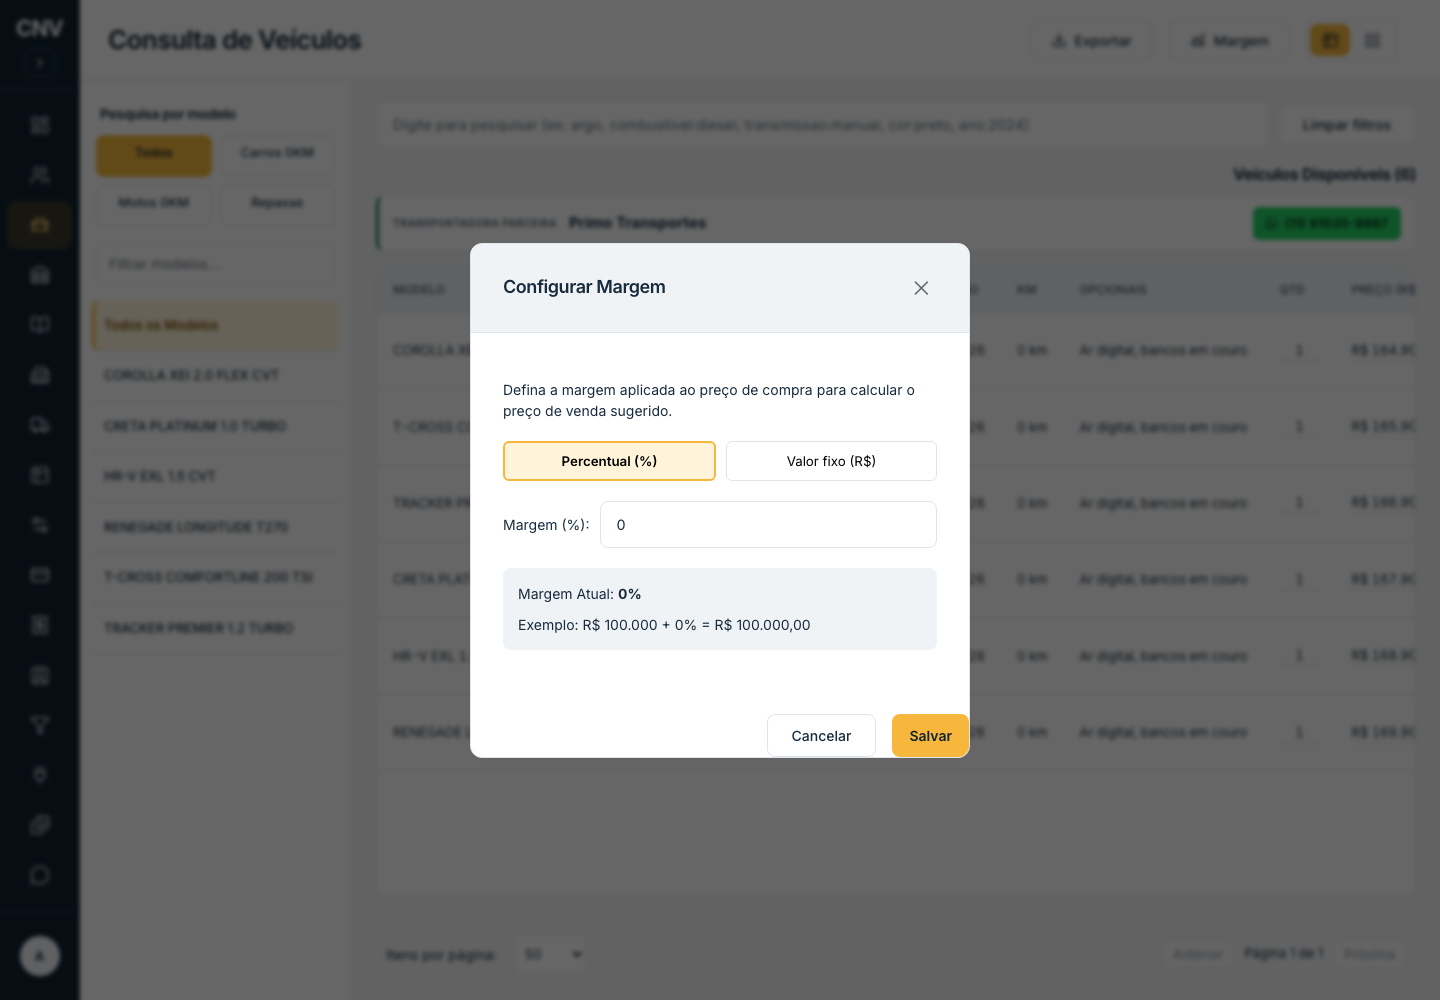
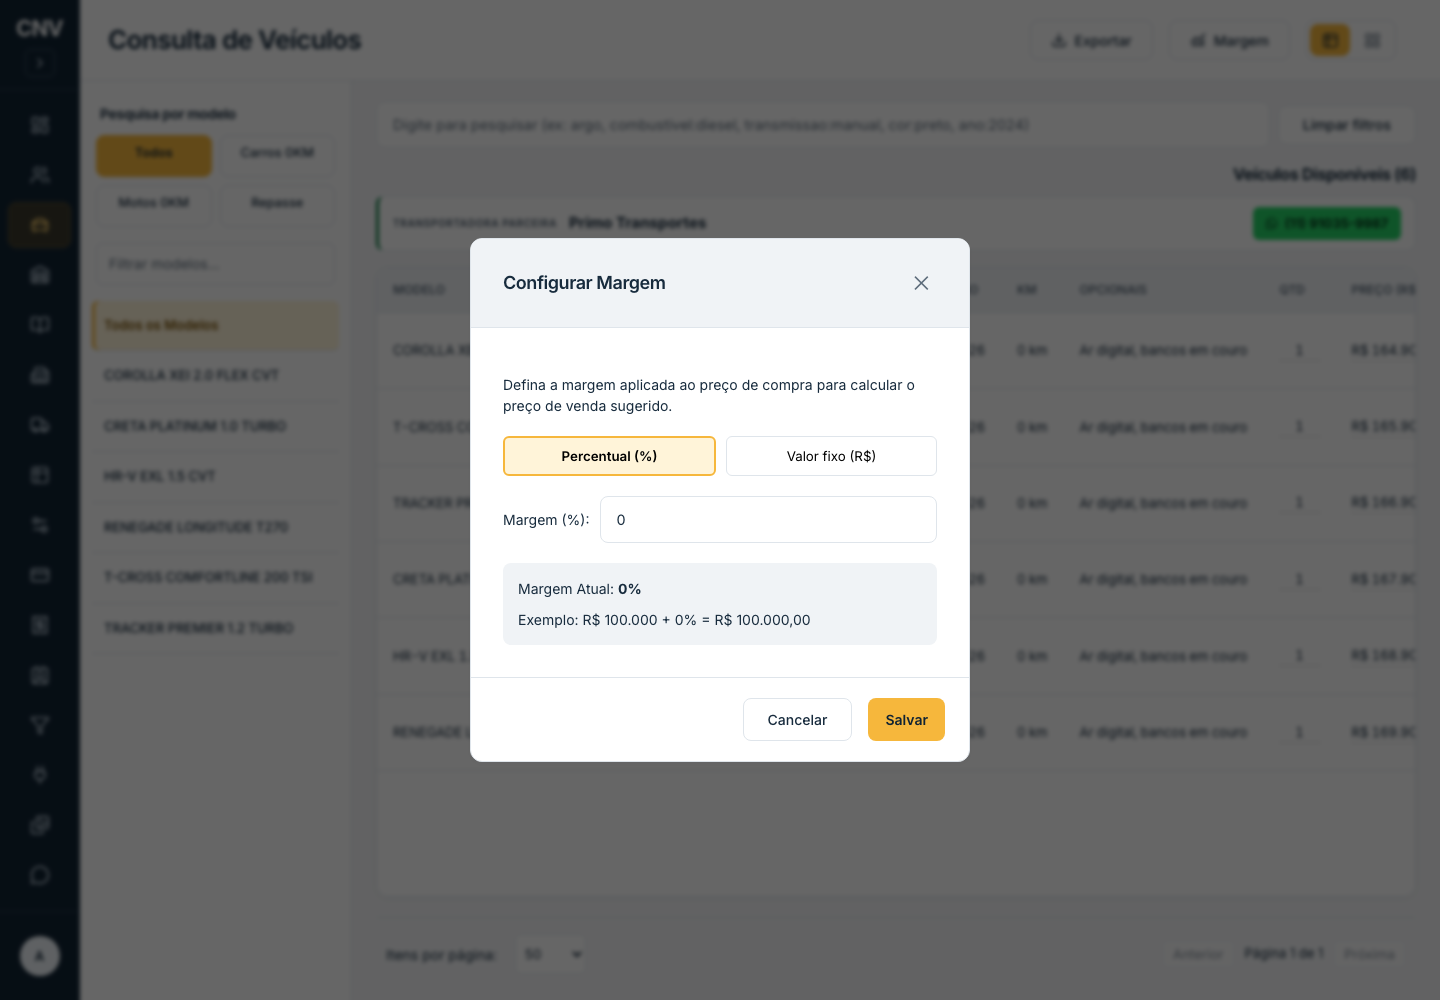
.
.

diff --git a/components/operator/VehicleTable.tsx b/components/operator/VehicleTable.tsx
@@ -74,6 +74,7 @@ export function VehicleTable({
     nomeCliente,
     showKm = false,
 }: VehicleTableProps) {
+    const prioritizePrice = ['admin', 'administrador', 'gerente'].includes(role || '');
     const canEditPriceAndNotes = ['admin', 'administrador', 'administrativo', 'operator', 'operador', 'gerente'].includes(role || '');
     
     const calculateClientPrice = (vehicle: Vehicle) => {
@@ -83,6 +84,10 @@ export function VehicleTable({
         }
         return basePrice * (1 + margem / 100);
     };
+
+    const priceHeader = (<th className={`${styles.tableHeader} ${styles.priceCell}`} onClick={() => handleSort('preco')} style={{ cursor: 'pointer' }}>
+                            PREÇO (R$) {sortConfig.key === 'preco' && (sortConfig.direction === 'asc' ? '▲' : '▼')}
+                        </th>);
 
     return (
         <div className={styles.tableContainer}>
@@ -95,6 +100,7 @@ export function VehicleTable({
                                 MODELO {sortConfig.key === 'modelo' && (sortConfig.direction === 'asc' ? '▲' : '▼')}
                             </th>
                         )}
+                        {prioritizePrice && priceHeader}
                         <th className={styles.tableHeader} onClick={() => handleSort('transmissao')} style={{ cursor: 'pointer' }}>
                             TRANSMISSÃO {sortConfig.key === 'transmissao' && (sortConfig.direction === 'asc' ? '▲' : '▼')}
                         </th>
@@ -116,9 +122,7 @@ export function VehicleTable({
                         <th className={styles.tableHeader} style={{ width: '60px' }}>
                             QTD
                         </th>
-                        <th className={styles.tableHeader} onClick={() => handleSort('preco')} style={{ cursor: 'pointer' }}>
-                            PREÇO (R$) {sortConfig.key === 'preco' && (sortConfig.direction === 'asc' ? '▲' : '▼')}
-                        </th>
+                        {!prioritizePrice && priceHeader}
                         <th className={styles.tableHeader} onClick={() => handleSort('status')} style={{ cursor: 'pointer' }}>
                             STATUS {sortConfig.key === 'status' && (sortConfig.direction === 'asc' ? '▲' : '▼')}
                         </th>
@@ -166,6 +170,16 @@ export function VehicleTable({
                         const isRepasse = vehicle.origem === 'repasse';
                         const rowReadOnly = isClientReadOnly || isRepasse;
                         const rowCanEdit = canEditPriceAndNotes && !isRepasse;
+                        const priceCell = (<td className={`${styles.tableCell} ${styles.priceCell}`}>
+                                {rowReadOnly && !rowCanEdit ? (
+                                    `R$ ${calculateClientPrice(vehicle).toLocaleString('pt-BR', { minimumFractionDigits: 2 })}`
+                                ) : (
+                                    <EditableCurrencyCell
+                                        value={vehicle.preco}
+                                        onSave={(newValue) => handleUpdatePreco(vehicle, newValue)}
+                                    />
+                                )}
+                            </td>);
                         return (
                         <tr key={vehicle.id} className={styles.tableRow}>
 
@@ -185,6 +199,7 @@ export function VehicleTable({
                                     )}
                                 </td>
                             )}
+                            {prioritizePrice && priceCell}
                             <td className={styles.tableCell}>
                                 {rowReadOnly ? (
                                     <HighlightText text={vehicle.transmissao} searchTerm={pendingSearchTerm} />
@@ -256,16 +271,7 @@ export function VehicleTable({
                                     />
                                 )}
                             </td>
-                            <td className={styles.tableCell}>
-                                {rowReadOnly && !rowCanEdit ? (
-                                    `R$ ${calculateClientPrice(vehicle).toLocaleString('pt-BR', { minimumFractionDigits: 2 })}`
-                                ) : (
-                                    <EditableCurrencyCell
-                                        value={vehicle.preco}
-                                        onSave={(newValue) => handleUpdatePreco(vehicle, newValue)}
-                                    />
-                                )}
-                            </td>
+                            {!prioritizePrice && priceCell}
                             <td className={styles.tableCell}>
                                 {rowReadOnly ? (
                                     <span className={`${styles.statusBadge} ${getStatusColor(vehicle.status)}`}>

diff --git a/components/admin/IntegrationsPanel.tsx b/components/admin/IntegrationsPanel.tsx
@@ -66,7 +66,7 @@ export default function IntegrationsPanel() {
                 Conecte ferramentas externas como Facebook Ads, RD Station, ActiveCampaign ou Typeform enviando Leads automaticamente para o CRM.
             </p>
 
-            <div style={{ display: 'grid', gap: '24px', gridTemplateColumns: '1fr', maxWidth: '800px' }}>
+            <div style={{ display: 'grid', gap: '24px', gridTemplateColumns: 'minmax(0, 1fr)', maxWidth: '800px' }}>
                 <div style={{ background: 'var(--color-panel)', border: '1px solid var(--color-highlight)', borderRadius: '8px', padding: '24px' }}>
                     <h3 style={{ fontSize: '1.1rem', fontWeight: 600, marginBottom: '16px', display: 'flex', alignItems: 'center', gap: '8px' }}>
                         1. URL do Webhook
@@ -79,7 +79,7 @@ export default function IntegrationsPanel() {
                             type="text" 
                             readOnly 
                             value={webhookUrl} 
-                            style={{ flex: 1, padding: '10px 16px', background: 'var(--color-panel)', border: '1px solid var(--color-highlight)', color: 'var(--color-text)', borderRadius: '6px', fontFamily: 'monospace', outline: 'none' }}
+                            style={{ flex: '1 1 180px', minWidth: 0, padding: '10px 16px', background: 'var(--color-panel)', border: '1px solid var(--color-highlight)', color: 'var(--color-text)', borderRadius: '6px', fontFamily: 'monospace', outline: 'none' }}
                         />
                         <button 
                             onClick={() => handleCopy(webhookUrl)}
@@ -102,7 +102,7 @@ export default function IntegrationsPanel() {
                             type="text" 
                             readOnly 
                             value={token || 'Nenhum token gerado ainda'} 
-                            style={{ flex: 1, padding: '10px 16px', background: 'var(--color-panel)', border: '1px solid var(--color-highlight)', color: token ? 'var(--color-text)' : '#ef4444', borderRadius: '6px', fontFamily: 'monospace', outline: 'none' }}
+                            style={{ flex: '1 1 180px', minWidth: 0, padding: '10px 16px', background: 'var(--color-panel)', border: '1px solid var(--color-highlight)', color: token ? 'var(--color-text)' : '#ef4444', borderRadius: '6px', fontFamily: 'monospace', outline: 'none' }}
                         />
                         {token && (
                             <button 
@@ -129,7 +129,7 @@ export default function IntegrationsPanel() {
                     <p style={{ fontSize: '0.9rem', color: 'var(--color-text-muted)', marginBottom: '12px' }}>
                         O corpo da requisição (Body) deve ser um JSON com os dados do Lead. Nome e Telefone são obrigatórios.
                     </p>
-                    <pre style={{ background: 'var(--color-panel)', padding: '16px', borderRadius: '8px', color: 'var(--color-text)', fontFamily: 'monospace', fontSize: '0.9rem', overflowX: 'auto', border: '1px solid var(--color-highlight)' }}>
+                    <pre style={{ background: 'var(--color-panel)', padding: '16px', borderRadius: '8px', color: 'var(--color-text)', fontFamily: 'monospace', fontSize: '0.9rem', overflowX: 'auto', maxWidth: '100%', border: '1px solid var(--color-highlight)' }}>
 {`{
   "name": "Nome do Lead",
   "phone": "(11) 99999-9999",

diff --git a/components/UserMenu.tsx b/components/UserMenu.tsx
@@ -3,6 +3,7 @@
 import { useState, useRef, useEffect } from 'react';
 import { signOut, useSession } from 'next-auth/react';
 import Link from 'next/link';
+import { UserRound, Repeat2, Sun, Moon, LogOut } from 'lucide-react';
 import { useTheme } from '@/lib/contexts/ThemeContext';
 import styles from './UserMenu.module.css';
 
@@ -205,7 +206,7 @@ export default function UserMenu({ name, email, role, credits, isDropup, alignLe
                         className={styles.menuItem}
                         onClick={() => setIsOpen(false)}
                     >
-                        <span className={styles.menuItemIcon}>👤</span>
+                        <span className={styles.menuItemIcon}><UserRound size={17} aria-hidden="true" /></span>
                         Meu Perfil
                         <ProfileRing pct={profileCompletion} />
                     </Link>
@@ -221,7 +222,7 @@ export default function UserMenu({ name, email, role, credits, isDropup, alignLe
                                         onClick={() => handleSwitchProfile(profile)}
                                         className={styles.menuItem}
                                     >
-                                        <span className={styles.menuItemIcon}>🔄</span>
+                                        <span className={styles.menuItemIcon}><Repeat2 size={17} aria-hidden="true" /></span>
                                         {formatProfileName(profile)}
                                     </button>
                                 )
@@ -235,7 +236,7 @@ export default function UserMenu({ name, email, role, credits, isDropup, alignLe
                         onClick={toggleTheme}
                         className={styles.menuItem}
                     >
-                        <span className={styles.menuItemIcon}>{theme === 'dark' ? '☀' : '🌙'}</span>
+                        <span className={styles.menuItemIcon}>{theme === 'dark' ? <Sun size={17} aria-hidden="true" /> : <Moon size={17} aria-hidden="true" />}</span>
                         {theme === 'dark' ? 'Modo Claro' : 'Modo Escuro'}
                     </button>
 
@@ -245,7 +246,7 @@ export default function UserMenu({ name, email, role, credits, isDropup, alignLe
                         onClick={handleLogout}
                         className={`${styles.menuItem} ${styles.logoutButton}`}
                     >
-                        <span className={styles.menuItemIcon}>🚪</span>
+                        <span className={styles.menuItemIcon}><LogOut size={17} aria-hidden="true" /></span>
                         Sair
                     </button>
                 </div>

diff --git a/__tests__/components/VehicleTableDesign.test.tsx b/__tests__/components/VehicleTableDesign.test.tsx
@@ -1,0 +1,34 @@
+import React from 'react';
+import { render, screen, within } from '@testing-library/react';
+import { describe, expect, it, vi } from 'vitest';
+import { VehicleTable } from '../../components/operator/VehicleTable';
+
+function tableProps(role: string): React.ComponentProps<typeof VehicleTable> {
+    return {
+        vehicles: [{ id: 'v1', modelo: 'Corolla XEi', preco: 100000, cor: 'Prata', ano: '2026', status: 'A faturar', transmissao: 'Automático', combustivel: 'Flex', estado: 'SP', quantidade: 1 } as any],
+        role, selectedIds: [], selectedModel: null, isClientReadOnly: role === 'client',
+        sortConfig: { key: 'preco', direction: 'asc' }, pendingSearchTerm: '',
+        modeloOptions: [], transmissaoOptions: [], combustivelOptions: [], statusOptions: [], brazilStates: [],
+        localCredits: 10, margem: 10, fixedMargin: 0, marginMode: 'percent',
+        handleSelectAll: vi.fn(), handleSort: vi.fn(), handleSelectOne: vi.fn(),
+        handleUpdateVehicleField: vi.fn(), handleUpdateOpcionais: vi.fn(), handleUpdatePreco: vi.fn(),
+        handleLocationClick: vi.fn(), onWhatsApp: vi.fn(),
+    };
+}
+
+describe('consulta administrativa', () => {
+    it('destaca preço ao lado do modelo sem duplicar ou perder células', () => {
+        render(<VehicleTable {...tableProps('administrador')} />);
+        const headers = screen.getAllByRole('columnheader');
+        expect(headers[1]).toHaveTextContent('PREÇO');
+        expect(headers.filter(h => h.textContent?.includes('PREÇO'))).toHaveLength(1);
+        const row = screen.getAllByRole('row')[1];
+        expect(within(row).getAllByRole('cell')).toHaveLength(headers.length);
+        expect(within(row).getAllByRole('cell')[1]).toHaveTextContent('100.000');
+    });
+    it('preserva a ordem e o cálculo de margem do cliente', () => {
+        render(<VehicleTable {...tableProps('client')} />);
+        expect(screen.getAllByRole('columnheader')[1]).toHaveTextContent('TRANSMISSÃO');
+        expect(screen.getByText('R$ 110.000,00')).toBeInTheDocument();
+    });
+});

diff --git a/wa/components/shell.tsx b/wa/components/shell.tsx
@@ -244,7 +244,7 @@ export function Shell({ children }: { children: React.ReactNode }) {
       {/* O <aside> reserva 4rem no fluxo; o painel interno cresce para 15rem
           no hover e sobrepõe o conteúdo (z acima do header), então nada se
           move na página quando ele abre. */}
-      <aside className="group relative z-40 hidden w-16 shrink-0 md:block">
+      <aside className="cnv-wa-navigation group relative z-40 hidden w-16 shrink-0 md:block">
         <div className="sticky top-0 flex h-screen w-16 flex-col overflow-hidden border-r border-line bg-paper transition-[width,box-shadow] duration-200 ease-out group-hover:w-60 group-hover:shadow-[8px_0_30px_rgba(11,18,21,0.35)]">
           <div className="flex h-16 shrink-0 items-center px-3">
             <Link href="/dashboard/admin/whatsapp/visao-geral" className="flex items-center gap-2 overflow-hidden" aria-label="Visão geral">

diff --git a/components/admin/ChurnDashboard.module.css b/components/admin/ChurnDashboard.module.css
@@ -148,3 +148,9 @@
 :global([data-admin-design]) .kpiIcon { color: var(--color-text-muted); }
 :global([data-admin-design]) .rankingSection { border: 0; padding: 0; background: transparent; box-shadow: none; }
 :global([data-admin-design]) .cellPurple { color: #8062aa; }
+:global([data-admin-design]) .globalKPIs { grid-template-columns: repeat(4, minmax(0, 1fr)); }
+:global([data-admin-design]) .kpiCard, :global([data-admin-design]) .kpiInfo { min-width: 0; }
+:global([data-admin-design]) .kpiInfo h2 { font-size: clamp(20px, 2vw, 28px); overflow-wrap: anywhere; }
+:global([data-admin-design]) .tableWrapper { overflow-x: auto; }
+@media (max-width: 1200px) { :global([data-admin-design]) .globalKPIs { grid-template-columns: repeat(2, minmax(0, 1fr)); } }
+@media (max-width: 600px) { :global([data-admin-design]) .globalKPIs { grid-template-columns: minmax(0, 1fr); gap: 12px; } }

diff --git a/lib/contexts/ThemeContext.tsx b/lib/contexts/ThemeContext.tsx
@@ -20,11 +20,11 @@ export function AdminThemeProvider({ children }: { children: React.ReactNode }) 
             if (saved === 'dark' || saved === 'light') setTheme(saved);
         } catch { /* Storage may be unavailable in private browsing. */ }
     }, []);
-    const toggleTheme = () => setTheme(current => {
-        const next = current === 'light' ? 'dark' : 'light';
+    const toggleTheme = () => {
+        const next = theme === 'light' ? 'dark' : 'light';
+        setTheme(next);
         try { localStorage.setItem('cnv-admin-theme', next); } catch { /* Session-only preference. */ }
-        return next;
-    });
+    };
     return <ThemeContext.Provider value={{ theme, toggleTheme }}>
         <div data-admin-design={theme}>{children}</div>
     </ThemeContext.Provider>;

diff --git a/app/dashboard/admin/layout.tsx b/app/dashboard/admin/layout.tsx
@@ -1,8 +1,11 @@
+import type { Viewport } from 'next';
 import { Inter } from 'next/font/google';
 import { AdminThemeProvider } from '@/lib/contexts/ThemeContext';
 import './design-system.css';
 
 const inter = Inter({ subsets: ['latin'], display: 'swap', variable: '--font-admin' });
+
+export const viewport: Viewport = { width: 'device-width', initialScale: 1, maximumScale: 5 };
 
 export default function AdminLayout({ children }: { children: React.ReactNode }) {
     return <div className={inter.variable}><AdminThemeProvider>{children}</AdminThemeProvider></div>;

diff --git a/components/operator/TablesManagement.module.css b/components/operator/TablesManagement.module.css
@@ -686,3 +686,4 @@
 :global([data-admin-design]) .table td { padding: 14px 16px; border: 0; border-bottom: 1px solid var(--admin-border); font-size: 14px; line-height: 1.45; }
 :global([data-admin-design]) .header { background: transparent; padding: 0 0 24px; border: 0; box-shadow: none; flex-wrap: wrap; gap: 16px; }
 :global([data-admin-design]) .header h2 { font-size: 28px; font-weight: 650; }
+:global([data-admin-design]) .modalActions { padding: 20px 24px; margin: 0; border-top: 1px solid var(--admin-border); }

diff --git a/wa/components/central.tsx b/wa/components/central.tsx
@@ -572,7 +572,7 @@ function CentralInner({ currentEmail }: { currentEmail: string }) {
                       {c.preview}
                     </span>
                     {c.unread > 0 && (
-                      <span className="shrink-0 rounded-full bg-brand-500 px-1.5 text-[10px] font-bold text-white">
+                      <span className="shrink-0 rounded-full bg-brand-500 px-1.5 text-[10px] font-bold text-[#102333]">
                         {c.unread}
                       </span>
                     )}

diff --git a/wa/components/pipeline.tsx b/wa/components/pipeline.tsx
@@ -356,7 +356,7 @@ function Card({
         <span className="flex items-center gap-1.5">
           {daysInStage > 0 && <span title="Dias nesta etapa">{daysInStage}d</span>}
           {item.unread > 0 && (
-            <span className="rounded-full bg-brand-500 px-1.5 text-[10px] font-bold text-white">{item.unread}</span>
+            <span className="rounded-full bg-brand-500 px-1.5 text-[10px] font-bold text-[#102333]">{item.unread}</span>
           )}
           {item.assignedTo && (
             <span

diff --git a/wa/styles/whatsapp.css b/wa/styles/whatsapp.css
@@ -328,3 +328,13 @@
 }
 [data-admin-design] .wa-scope .card { border-radius: 12px; box-shadow: var(--admin-shadow); }
 [data-admin-design] .wa-scope .input { border-radius: 8px; }
+[data-admin-design] .wa-scope .cnv-wa-navigation {
+  --color-paper: #102333;
+  --color-canvas: #1b3448;
+  --color-line: #263b4c;
+  --color-muted: #aebdca;
+  --color-ink-700: #bdcbd8;
+  --color-ink-900: #edf3f8;
+  --admin-selected: #3a382b;
+  --admin-selected-text: #ffd16e;
+}
